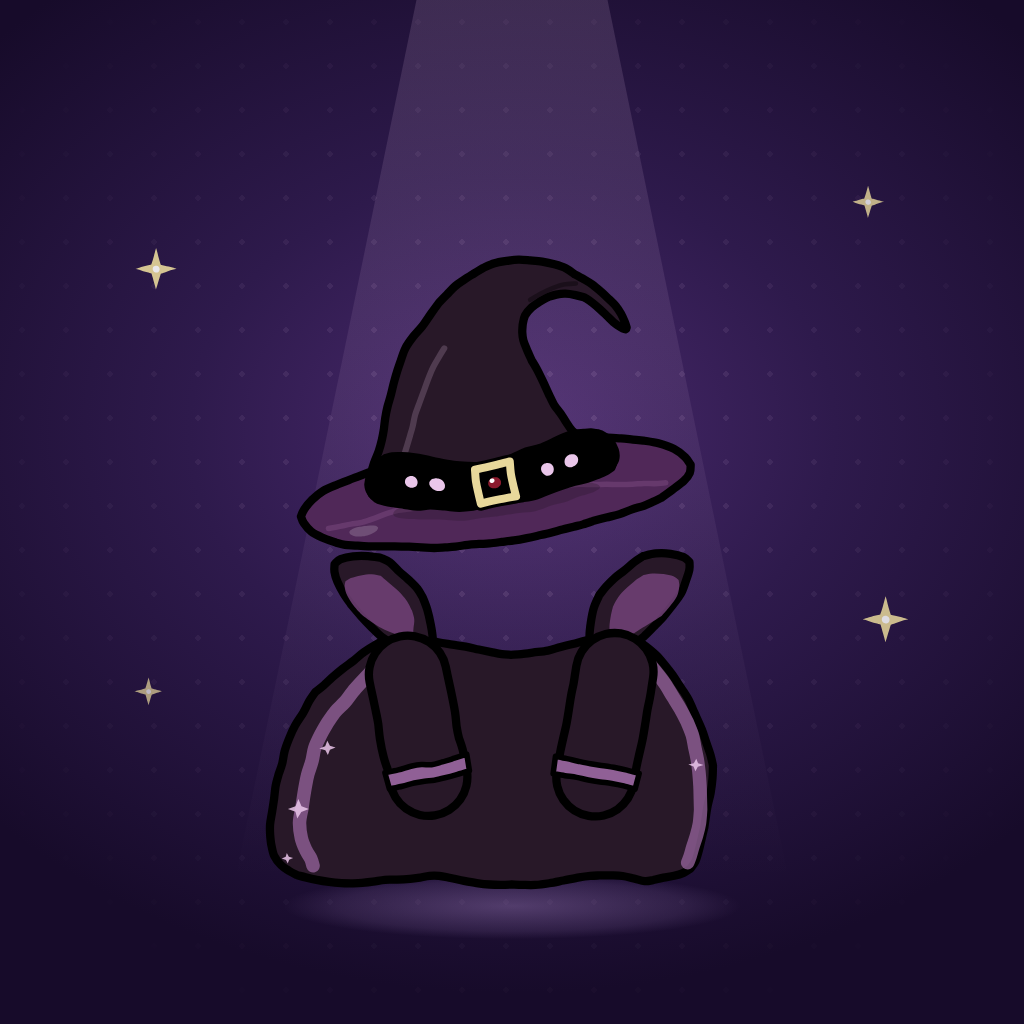
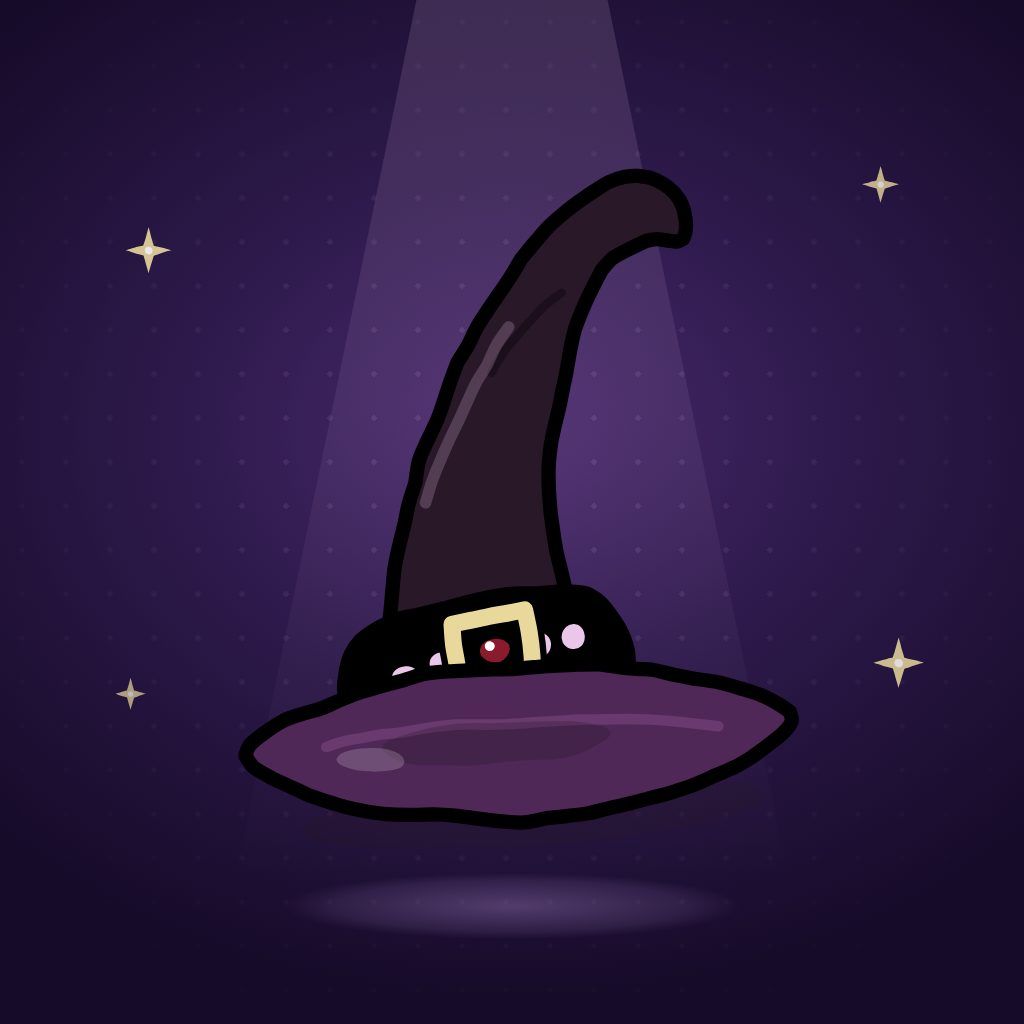
Item image: the hat alone, big and centred
The operator's call, and the right one for a shop icon: no robe in the item picture, just the hat,
large and centred under the spotlight with the plinth glow beneath and sparkles around it. It reads
at thumbnail size, which is where a shop item mostly lives.

diff --git a/apps/web/public/brand/items/index.html b/apps/web/public/brand/items/index.html
@@ -37,6 +37,6 @@ collection logo also covers the bottom-left corner, which is why there is no tex
 <div class="frame"><img src="../items-x-header.png" alt=""></div></div>
 <div class="piece"><h2>Link preview (Open Graph / X card) · 2400×1260 (1.91:1).<small>2400×1260 · 909 KB · <a href="../items-og.png" download>items-og.png</a></small></h2>
 <div class="frame"><img src="../items-og.png" alt=""></div></div>
-<div class="piece"><h2>Item card · 1:1. The witch outfit as its token image: the costume alone, on a hanger, no cat, so it fits any character later.<small>1024×1024 · 458 KB · <a href="../item-witch.png" download>item-witch.png</a></small></h2>
+<div class="piece"><h2>Item card · 1:1. The witch outfit as its token image: the hat, big and centred, no cat, so it fits any character later.<small>1024×1024 · 451 KB · <a href="../item-witch.png" download>item-witch.png</a></small></h2>
 <div class="frame"><img src="../item-witch.png" alt=""></div></div>
 </body></html>
